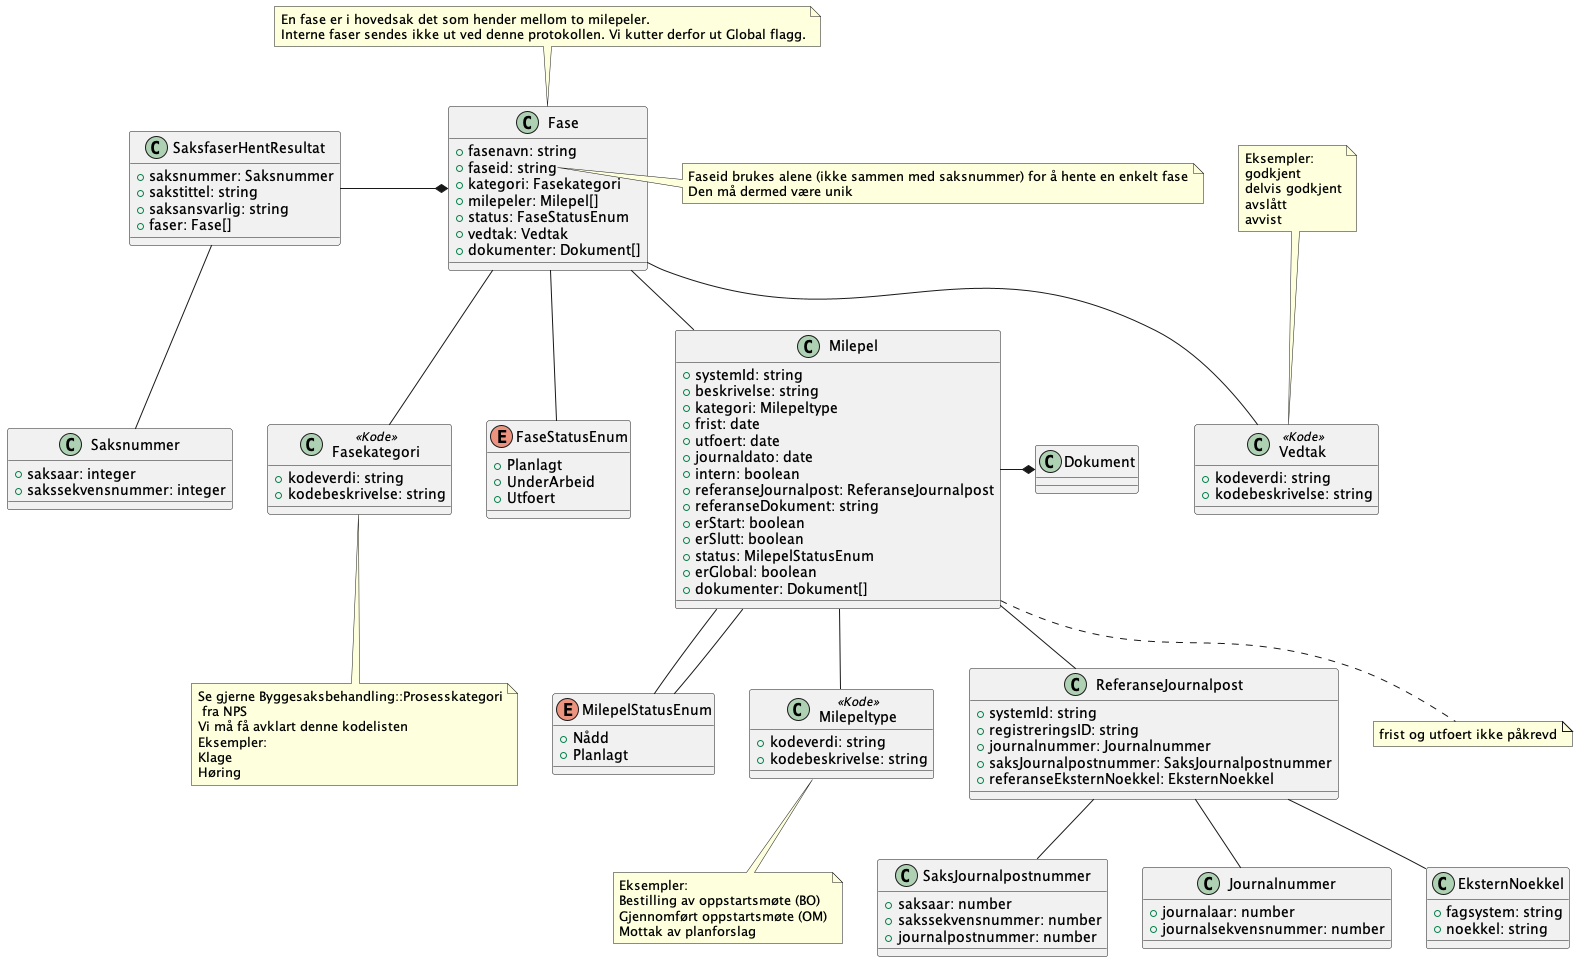
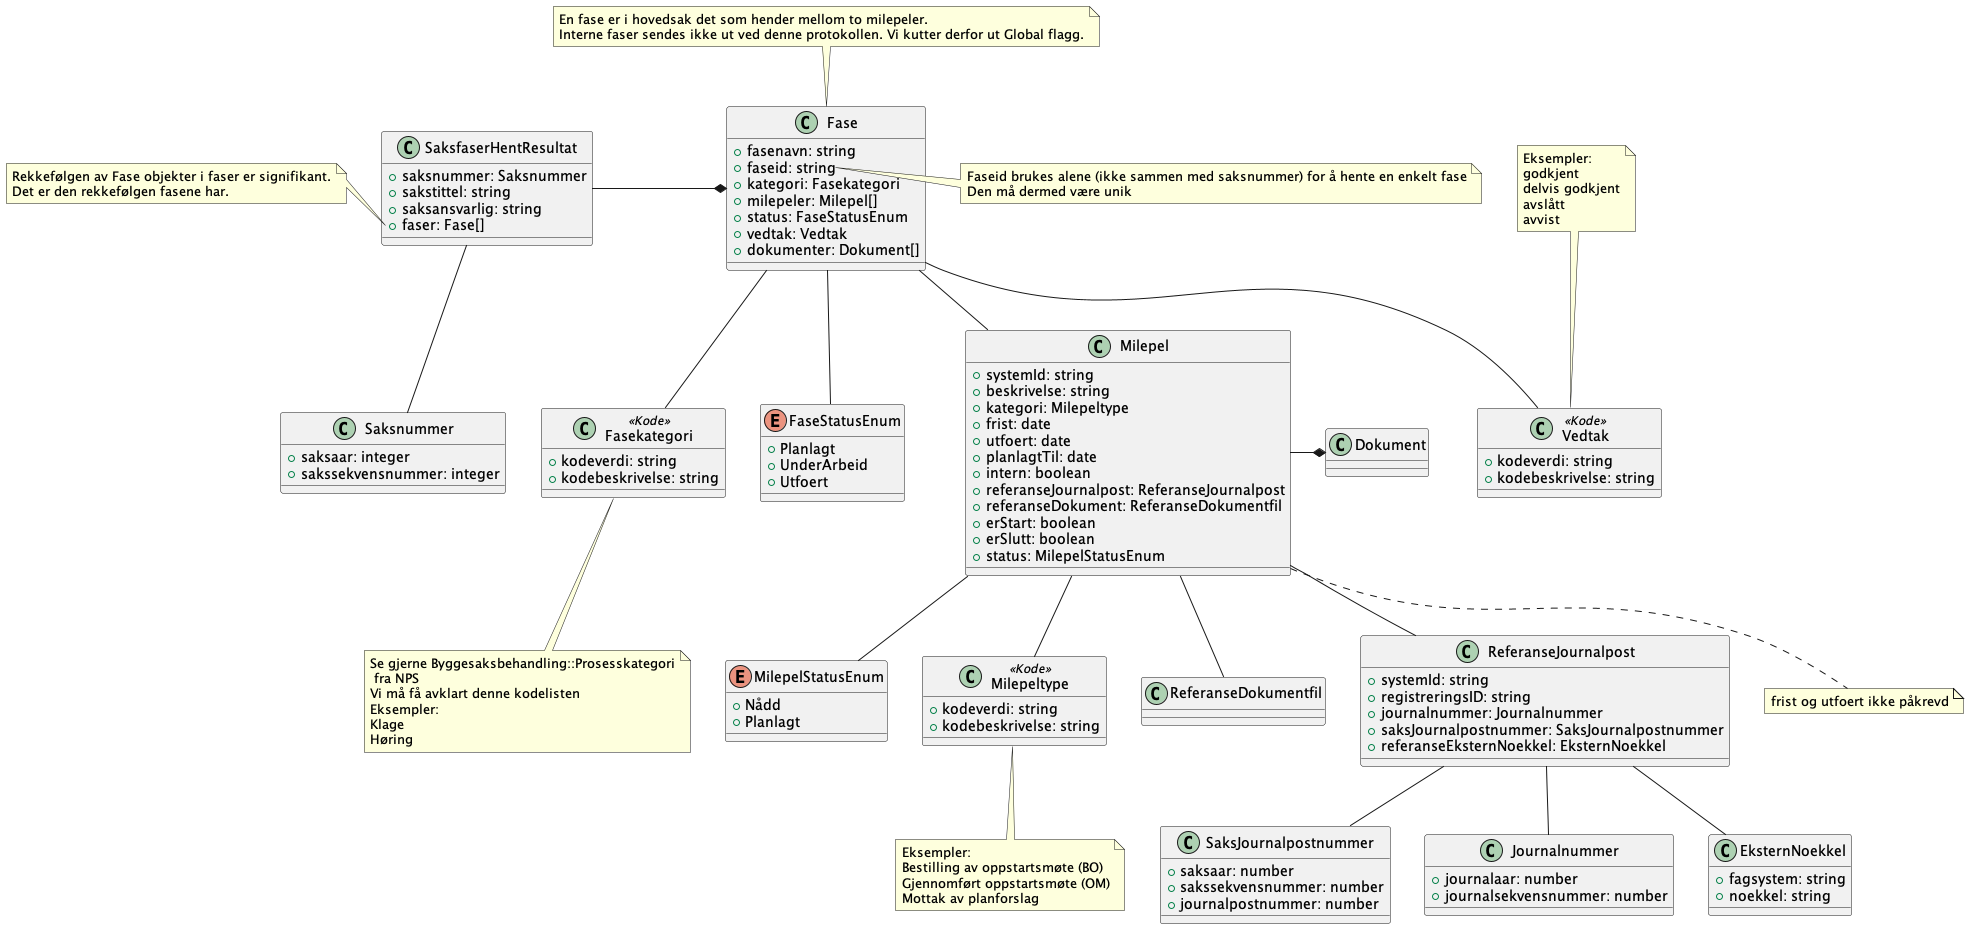
Endringer etter møte

diff --git a/README.md b/README.md
@@ -83,7 +83,7 @@ _Schemas er ikke oppdatert. Se klassediagram under for innspill_
 - Milepel inneholder mulighetene for å gi en liste med dokumenter. Dette er fordi vi gjenbruker milepel objektetet for hent faser og hent en enkelt fase.
 - Dokumenter vil være ikke påkrevd under milepel eller fase.
 - Milepeler er liste under fase. Kan være 2, start og slutt, eller flere. Alt etter brukstilfelle.
-- Rekkefølgen for fasene er rekkefølgen de er i listen over faser i SaksfaserHentResultat
+- SaksfaserHentResultat: Rekkefølgen av Fase objekter i faser listen er signifikant. Det er den rekkefølgen fasene har.
 
 #### Melding - Hent saksfase
 
